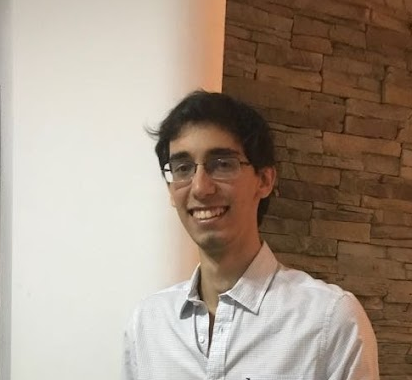
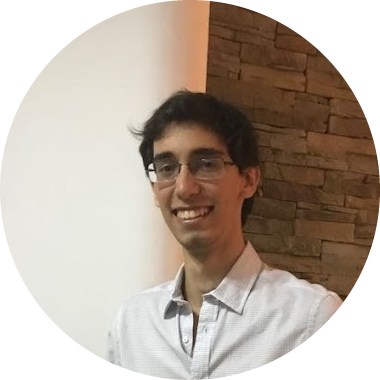
fix cv pic size

diff --git a/static/css/main.ab9989cb.css b/static/css/main.ab9989cb.css
@@ -1,0 +1,2 @@
+@import url(https://fonts.googleapis.com/css2?family=Source+Sans+Pro:ital,wght@0,300;0,400;0,600;0,900;1,400&display=swap);@import url(https://fonts.googleapis.com/css2?family=Source+Serif+4:ital,wght@0,400;0,600;0,700;1,400&display=swap);:root{--color-foreground:17,24,39;--color-foreground-secondary:42,56,85;--color-background-secondary:175,173,168;--color-background:243,244,246;--color-light:243,244,246;--color-mid:46,60,90;--color-dark:17,24,39;--user-font-scale:1rem;--rainbow-1:#632bf3;--rainbow-2:#f122c8;--rainbow-3:#f16022;--rainbow-4:#9ef344;--rainbow-5:#44d3f3;--red:#c93030}.xx-large{font-size:5rem}.x-large{font-size:3.5rem}.large{font-size:2rem}.big{font-size:1.5rem}.serif{font-family:"Source Serif 4",serif}.italics{font-style:italic}.text-gray{color:#2a3855;color:rgb(var(--color-foreground-secondary))}h2,h3{font-weight:600}ul{list-style-type:none}body{background:#f3f4f6;background:rgb(var(--color-background));color:#111827;color:rgb(var(--color-foreground));font-family:Source Sans Pro,sans-serif;font-size:clamp(.875rem,.4626rem + 1.0309vw + 1rem,1.125rem);font-size:clamp(.875rem,.4626rem + 1.0309vw + var(--user-font-scale),1.125rem);max-width:100vw;min-height:100vh;overflow-x:hidden;-webkit-user-select:none;-ms-user-select:none;user-select:none;width:100%}body>div{min-height:inherit}@media(prefers-color-scheme:dark){:root{--color-foreground:250,246,238;--color-foreground-secondary:175,173,168;--color-background-secondary:42,56,85;--color-background:17,24,39}}*{box-sizing:border-box;margin:0}a{color:inherit;text-decoration:none}@media (max-width:700px){.hide-phone{display:none}}@media (min-width:700px){.hide-phone{display:block}.hide-tablet{display:none}}@media (min-width:1000px){.hide-tablet{display:block}.hide-pc{display:none}}.spinning-logo-container{height:50px;width:50px}.spinning-logo{align-items:center;-webkit-animation:spinning 10s linear infinite;animation:spinning 10s linear infinite;display:flex;justify-content:center;-webkit-transform-style:preserve-3d;transform-style:preserve-3d;transition:.1s}.spinning-logo>.face{left:0;position:absolute;top:0}.spinning-logo>.face.front{height:50px;-webkit-transform:translateZ(2px);transform:translateZ(2px);width:50px}.spinning-logo>.face.back{background-color:#fff;height:50px;-webkit-mask:url(/portfolio-minimalist/static/media/logo2.45fc0f20abd22bcc266a.svg);mask:url(/portfolio-minimalist/static/media/logo2.45fc0f20abd22bcc266a.svg);-webkit-mask-repeat:no-repeat;mask-repeat:no-repeat;-webkit-transform:translateZ(-1.75px) translateX(3px);transform:translateZ(-1.75px) translateX(3px);width:50px}.spinning-logo>.face.back>img{height:auto;-webkit-transform:translateY(10px);transform:translateY(10px);width:100%}.spinning-logo>.face.side{height:25px;width:4px}.spinning-logo>.face.side.e{background-color:#fff;-webkit-transform:rotateY(90deg) translate3d(0,12.5px,44.5px);transform:rotateY(90deg) translate3d(0,12.5px,44.5px)}.spinning-logo>.face.side.w{background-color:#fff;-webkit-transform:rotateY(90deg) translate3d(0,12.5px,1.5px);transform:rotateY(90deg) translate3d(0,12.5px,1.5px)}.spinning-logo>.face.side.nw{background-color:#fff;-webkit-transform:rotate(120deg) rotateY(90deg) translate3d(0,-26px,-22.25px);transform:rotate(120deg) rotateY(90deg) translate3d(0,-26px,-22.25px)}.spinning-logo>.face.side.ne{background-color:#fff;-webkit-transform:rotate(240deg) rotateY(90deg) translate3d(0,13.75px,-.75px);transform:rotate(240deg) rotateY(90deg) translate3d(0,13.75px,-.75px)}.spinning-logo>.face.side.se{background-color:#fff;-webkit-transform:rotate(120deg) rotateY(90deg) translate3d(0,-26px,20.75px);transform:rotate(120deg) rotateY(90deg) translate3d(0,-26px,20.75px)}.spinning-logo>.face.side.sw{background-color:#fff;-webkit-transform:rotate(240deg) rotateY(90deg) translate3d(0,13.75px,-43.75px);transform:rotate(240deg) rotateY(90deg) translate3d(0,13.75px,-43.75px)}@-webkit-keyframes spinning{0%{-webkit-transform:rotateY(0deg);transform:rotateY(0deg)}to{-webkit-transform:rotateY(1turn);transform:rotateY(1turn)}}@keyframes spinning{0%{-webkit-transform:rotateY(0deg);transform:rotateY(0deg)}to{-webkit-transform:rotateY(1turn);transform:rotateY(1turn)}}header{--rainbow-height:5px;background-color:rgb(var(--color-background));box-shadow:0 0 4px 4px rgba(var(--color-foreground),.26);height:70px;position:-webkit-sticky;position:sticky;top:0;z-index:5}header .rainbow-border{background:linear-gradient(90deg,var(--rainbow-1),var(--rainbow-2),var(--rainbow-3),var(--rainbow-4),var(--rainbow-5));bottom:0;height:var(--rainbow-height);position:absolute;width:100%}.header__content{align-items:center;display:flex;height:100%;justify-content:center;margin:0 auto;max-width:1080px}.header__content h2{display:none}@media (min-width:700px){.header__content h2{display:block}}.glitched-title{position:relative}.glitched-title .layer{mix-blend-mode:exclusion}.glitched-title .layer.red{-webkit-animation:glitch-out .1s linear infinite;animation:glitch-out .1s linear infinite;color:red;left:0;position:absolute;top:0;-webkit-transform:translate(calc(var(--displacement-x)*-.25em),calc(var(--displacement-y)*.25em));transform:translate(calc(var(--displacement-x)*-.25em),calc(var(--displacement-y)*.25em))}.glitched-title .layer.green{color:lime}.glitched-title .layer.blue{-webkit-animation:glitch-out .1s linear infinite;animation:glitch-out .1s linear infinite;color:blue;left:0;position:absolute;top:0;-webkit-transform:translate(calc(var(--displacement-x)*.25em),calc(var(--displacement-y)*-.25em));transform:translate(calc(var(--displacement-x)*.25em),calc(var(--displacement-y)*-.25em))}@-webkit-keyframes glitch-out{0%{left:0}25%{left:-1px}75%{left:1px}to{left:0}}@keyframes glitch-out{0%{left:0}25%{left:-1px}75%{left:1px}to{left:0}}.rainbow-fill-title{-webkit-text-fill-color:transparent;-webkit-animation:animate-bkg 5s linear infinite;animation:animate-bkg 5s linear infinite;-webkit-background-clip:text;background-image:linear-gradient(90deg,var(--rainbow-1),var(--rainbow-2),var(--rainbow-3),var(--rainbow-4),var(--rainbow-5),var(--rainbow-1));background-size:120% 100%;font-weight:900}@-webkit-keyframes animate-bkg{0%{background-position:0 0}to{background-position:600% 0}}@keyframes animate-bkg{0%{background-position:0 0}to{background-position:600% 0}}.split-title{display:flex;line-height:.85;margin:0 auto;position:relative;width:-webkit-fit-content;width:-moz-fit-content;width:fit-content}.split-title__cutout{-webkit-animation:cutout-movement 20s ease-in-out infinite;animation:cutout-movement 20s ease-in-out infinite;background-image:linear-gradient(90deg,var(--rainbow-1),var(--rainbow-2),var(--rainbow-3),var(--rainbow-4),var(--rainbow-5),var(--rainbow-1));color:rgb(var(--color-background));left:0;position:absolute;top:0}@-webkit-keyframes cutout-movement{0%{-webkit-clip-path:polygon(var(--pos-left-1) 0,var(--pos-left-1) 100%,var(--pos-right-1) 100%,var(--pos-right-1) 0);clip-path:polygon(var(--pos-left-1) 0,var(--pos-left-1) 100%,var(--pos-right-1) 100%,var(--pos-right-1) 0)}35%{-webkit-clip-path:polygon(var(--pos-left-2) 0,var(--pos-left-2) 100%,var(--pos-right-2) 100%,var(--pos-right-2) 0);clip-path:polygon(var(--pos-left-2) 0,var(--pos-left-2) 100%,var(--pos-right-2) 100%,var(--pos-right-2) 0)}70%{-webkit-clip-path:polygon(var(--pos-left-3) 0,var(--pos-left-3) 100%,var(--pos-right-3) 100%,var(--pos-right-3) 0);clip-path:polygon(var(--pos-left-3) 0,var(--pos-left-3) 100%,var(--pos-right-3) 100%,var(--pos-right-3) 0)}to{-webkit-clip-path:polygon(var(--pos-left-1) 0,var(--pos-left-1) 100%,var(--pos-right-1) 100%,var(--pos-right-1) 0);clip-path:polygon(var(--pos-left-1) 0,var(--pos-left-1) 100%,var(--pos-right-1) 100%,var(--pos-right-1) 0)}}@keyframes cutout-movement{0%{-webkit-clip-path:polygon(var(--pos-left-1) 0,var(--pos-left-1) 100%,var(--pos-right-1) 100%,var(--pos-right-1) 0);clip-path:polygon(var(--pos-left-1) 0,var(--pos-left-1) 100%,var(--pos-right-1) 100%,var(--pos-right-1) 0)}35%{-webkit-clip-path:polygon(var(--pos-left-2) 0,var(--pos-left-2) 100%,var(--pos-right-2) 100%,var(--pos-right-2) 0);clip-path:polygon(var(--pos-left-2) 0,var(--pos-left-2) 100%,var(--pos-right-2) 100%,var(--pos-right-2) 0)}70%{-webkit-clip-path:polygon(var(--pos-left-3) 0,var(--pos-left-3) 100%,var(--pos-right-3) 100%,var(--pos-right-3) 0);clip-path:polygon(var(--pos-left-3) 0,var(--pos-left-3) 100%,var(--pos-right-3) 100%,var(--pos-right-3) 0)}to{-webkit-clip-path:polygon(var(--pos-left-1) 0,var(--pos-left-1) 100%,var(--pos-right-1) 100%,var(--pos-right-1) 0);clip-path:polygon(var(--pos-left-1) 0,var(--pos-left-1) 100%,var(--pos-right-1) 100%,var(--pos-right-1) 0)}}.vibrating-title{position:relative;width:-webkit-fit-content;width:-moz-fit-content;width:fit-content}.vibrating-title .layer{-webkit-animation:vibrate 2.5s linear infinite;animation:vibrate 2.5s linear infinite;mix-blend-mode:exclusion}.vibrating-title .layer.red{--rotation-amount:7deg;--rotation-amount-inverse:calc(var(--rotation-amount)*-1);--scale-amount:.92;color:red;left:0;position:absolute;top:0}.vibrating-title .layer.green{--rotation-amount:5deg;--rotation-amount-inverse:calc(var(--rotation-amount)*-1);--scale-amount:.9;color:lime}.vibrating-title .layer.blue{--rotation-amount:3deg;--rotation-amount-inverse:calc(var(--rotation-amount)*-1);--scale-amount:.88;color:blue;left:0;position:absolute;top:0}@-webkit-keyframes vibrate{0%{-webkit-transform:rotate(0deg);transform:rotate(0deg)}1%{-webkit-transform:rotate(var(--rotation-amount)) scale(var(--scale-amount));transform:rotate(var(--rotation-amount)) scale(var(--scale-amount))}2%{-webkit-transform:rotate(var(--rotation-amount-inverse)) scale(var(--scale-amount));transform:rotate(var(--rotation-amount-inverse)) scale(var(--scale-amount))}3%{-webkit-transform:rotate(var(--rotation-amount)) scale(var(--scale-amount));transform:rotate(var(--rotation-amount)) scale(var(--scale-amount))}4%{-webkit-transform:rotate(var(--rotation-amount-inverse)) scale(var(--scale-amount));transform:rotate(var(--rotation-amount-inverse)) scale(var(--scale-amount))}5%{-webkit-transform:rotate(var(--rotation-amount));transform:rotate(var(--rotation-amount))}6%{-webkit-transform:rotate(var(--rotation-amount-inverse)) scale(var(--scale-amount));transform:rotate(var(--rotation-amount-inverse)) scale(var(--scale-amount))}7%{-webkit-transform:rotate(var(--rotation-amount));transform:rotate(var(--rotation-amount))}8%{-webkit-transform:rotate(var(--rotation-amount-inverse));transform:rotate(var(--rotation-amount-inverse))}9%{-webkit-transform:rotate(var(--rotation-amount)) scale(var(--scale-amount));transform:rotate(var(--rotation-amount)) scale(var(--scale-amount))}10%{-webkit-transform:rotate(0deg);transform:rotate(0deg)}20%{-webkit-transform:rotate(0deg);transform:rotate(0deg)}21%{-webkit-transform:rotate(var(--rotation-amount)) scale(var(--scale-amount));transform:rotate(var(--rotation-amount)) scale(var(--scale-amount))}22%{-webkit-transform:rotate(var(--rotation-amount-inverse));transform:rotate(var(--rotation-amount-inverse))}23%{-webkit-transform:rotate(var(--rotation-amount)) scale(var(--scale-amount));transform:rotate(var(--rotation-amount)) scale(var(--scale-amount))}24%{-webkit-transform:rotate(var(--rotation-amount-inverse));transform:rotate(var(--rotation-amount-inverse))}25%{-webkit-transform:rotate(var(--rotation-amount));transform:rotate(var(--rotation-amount))}26%{-webkit-transform:rotate(var(--rotation-amount-inverse)) scale(var(--scale-amount));transform:rotate(var(--rotation-amount-inverse)) scale(var(--scale-amount))}27%{-webkit-transform:rotate(var(--rotation-amount));transform:rotate(var(--rotation-amount))}28%{-webkit-transform:rotate(var(--rotation-amount-inverse));transform:rotate(var(--rotation-amount-inverse))}29%{-webkit-transform:rotate(var(--rotation-amount)) scale(var(--scale-amount));transform:rotate(var(--rotation-amount)) scale(var(--scale-amount))}30%{-webkit-transform:rotate(0deg);transform:rotate(0deg)}}@keyframes vibrate{0%{-webkit-transform:rotate(0deg);transform:rotate(0deg)}1%{-webkit-transform:rotate(var(--rotation-amount)) scale(var(--scale-amount));transform:rotate(var(--rotation-amount)) scale(var(--scale-amount))}2%{-webkit-transform:rotate(var(--rotation-amount-inverse)) scale(var(--scale-amount));transform:rotate(var(--rotation-amount-inverse)) scale(var(--scale-amount))}3%{-webkit-transform:rotate(var(--rotation-amount)) scale(var(--scale-amount));transform:rotate(var(--rotation-amount)) scale(var(--scale-amount))}4%{-webkit-transform:rotate(var(--rotation-amount-inverse)) scale(var(--scale-amount));transform:rotate(var(--rotation-amount-inverse)) scale(var(--scale-amount))}5%{-webkit-transform:rotate(var(--rotation-amount));transform:rotate(var(--rotation-amount))}6%{-webkit-transform:rotate(var(--rotation-amount-inverse)) scale(var(--scale-amount));transform:rotate(var(--rotation-amount-inverse)) scale(var(--scale-amount))}7%{-webkit-transform:rotate(var(--rotation-amount));transform:rotate(var(--rotation-amount))}8%{-webkit-transform:rotate(var(--rotation-amount-inverse));transform:rotate(var(--rotation-amount-inverse))}9%{-webkit-transform:rotate(var(--rotation-amount)) scale(var(--scale-amount));transform:rotate(var(--rotation-amount)) scale(var(--scale-amount))}10%{-webkit-transform:rotate(0deg);transform:rotate(0deg)}20%{-webkit-transform:rotate(0deg);transform:rotate(0deg)}21%{-webkit-transform:rotate(var(--rotation-amount)) scale(var(--scale-amount));transform:rotate(var(--rotation-amount)) scale(var(--scale-amount))}22%{-webkit-transform:rotate(var(--rotation-amount-inverse));transform:rotate(var(--rotation-amount-inverse))}23%{-webkit-transform:rotate(var(--rotation-amount)) scale(var(--scale-amount));transform:rotate(var(--rotation-amount)) scale(var(--scale-amount))}24%{-webkit-transform:rotate(var(--rotation-amount-inverse));transform:rotate(var(--rotation-amount-inverse))}25%{-webkit-transform:rotate(var(--rotation-amount));transform:rotate(var(--rotation-amount))}26%{-webkit-transform:rotate(var(--rotation-amount-inverse)) scale(var(--scale-amount));transform:rotate(var(--rotation-amount-inverse)) scale(var(--scale-amount))}27%{-webkit-transform:rotate(var(--rotation-amount));transform:rotate(var(--rotation-amount))}28%{-webkit-transform:rotate(var(--rotation-amount-inverse));transform:rotate(var(--rotation-amount-inverse))}29%{-webkit-transform:rotate(var(--rotation-amount)) scale(var(--scale-amount));transform:rotate(var(--rotation-amount)) scale(var(--scale-amount))}30%{-webkit-transform:rotate(0deg);transform:rotate(0deg)}}.segmented-title{position:relative}.segmented-title .layer{background-color:rgb(var(--color-background));border-radius:10px;padding:0 2rem;width:var(--text-container-width)}.segmented-title .layer.scrambled{border:1px solid rgba(var(--color-foreground),.5);position:absolute;top:0;-webkit-transform:rotateX(0deg);transform:rotateX(0deg);transition:.3s}.segmented-title .layer.scrambled.hidden{-webkit-transform:rotateX(-90deg);transform:rotateX(-90deg)}.segmented-title .layer.unscrambled{opacity:0;transition:1s .2s}.segmented-title .layer.unscrambled.hidden{opacity:1}.section-introduction{grid-gap:.5rem;display:flex;flex-direction:column;justify-content:space-evenly;min-height:calc(100vh - 70px - 1rem);padding:1rem .5rem 0;width:100%}.section-introduction .greeting{margin:0 auto;max-width:450px;width:100%}.section-introduction .picture{background-color:rgb(var(--color-foreground));margin:0 auto;-webkit-mask-image:url(/portfolio-minimalist/static/media/blob3.23fd94d61493c366bb46.svg);mask-image:url(/portfolio-minimalist/static/media/blob3.23fd94d61493c366bb46.svg);-webkit-mask-position:center;mask-position:center;-webkit-mask-repeat:no-repeat;mask-repeat:no-repeat;-webkit-mask-size:65%;mask-size:65%;max-width:450px;transition:-webkit-mask-size .2s ease-in-out;transition:mask-size .2s ease-in-out;transition:mask-size .2s ease-in-out,-webkit-mask-size .2s ease-in-out}.section-introduction .picture:hover{-webkit-mask-size:60%;mask-size:60%}.section-introduction .picture img{width:100%}.section-introduction .description{margin:.5rem auto;max-width:300px;text-align:center;width:100%}.section-introduction .description .contact-elements{grid-gap:.5rem;display:flex;flex-wrap:wrap;justify-content:center;margin:1rem auto 0}.section-introduction .description .contact-elements .redirect-btn{cursor:pointer;position:relative}.section-introduction .description .contact-elements .redirect-btn:hover .logo-div{-webkit-transform:scale(1.1);transform:scale(1.1)}.section-introduction .description .contact-elements .redirect-btn:hover .contact-tooltip{opacity:1}.section-introduction .description .contact-elements .logo-div{--logo-height:30px;aspect-ratio:1;background:rgb(var(--color-foreground));height:var(--logo-height);transition:.2s}.section-introduction .description .contact-elements .logo-div.github-logo{-webkit-mask-image:url(/portfolio-minimalist/static/media/github.ca395b70c42d82c28b4f.svg);mask-image:url(/portfolio-minimalist/static/media/github.ca395b70c42d82c28b4f.svg);-webkit-mask-position:center;mask-position:center;-webkit-mask-repeat:no-repeat;mask-repeat:no-repeat}.section-introduction .description .contact-elements .logo-div.linkedin-logo{-webkit-mask-image:url(/portfolio-minimalist/static/media/linkedin.e86a25febc03a915ee8d.svg);mask-image:url(/portfolio-minimalist/static/media/linkedin.e86a25febc03a915ee8d.svg);-webkit-mask-position:center;mask-position:center;-webkit-mask-repeat:no-repeat;mask-repeat:no-repeat}.section-introduction .description .contact-elements .logo-div.mail-logo{-webkit-mask-image:url(/portfolio-minimalist/static/media/envelope.bd9b93d2d34a856ff48b.svg);mask-image:url(/portfolio-minimalist/static/media/envelope.bd9b93d2d34a856ff48b.svg);-webkit-mask-position:center;mask-position:center;-webkit-mask-repeat:no-repeat;mask-repeat:no-repeat}.section-introduction .description .contact-elements .logo-div.download-logo{height:calc(var(--logo-height)*.9);-webkit-mask-image:url(/portfolio-minimalist/static/media/pdf.ffc0851df91f68e1ba02.svg);mask-image:url(/portfolio-minimalist/static/media/pdf.ffc0851df91f68e1ba02.svg);-webkit-mask-position:center;mask-position:center;-webkit-mask-repeat:no-repeat;mask-repeat:no-repeat}.section-introduction .description .contact-elements .contact-tooltip{background-color:rgb(var(--color-foreground));border-radius:5px;color:rgb(var(--color-background));left:50%;opacity:0;padding:.5rem 1.5rem;pointer-events:none;position:absolute;top:150%;-webkit-transform:translateX(-50%);transform:translateX(-50%);transition:.2s}@media (min-width:700px){.section-introduction{align-items:center;flex-direction:row;flex-wrap:wrap;margin:0 auto;max-width:calc(700px + 1rem)}.section-introduction .greeting,.section-introduction .picture{max-width:340px}}@media (min-width:1000px){.section-introduction{align-items:center;flex-direction:row;margin:0 auto;max-width:1000px}.section-introduction .picture{max-width:450px}}.tabbed-menu{width:100%}.tabbed-menu__tabs{grid-gap:1rem;background-color:rgb(var(--color-background-secondary));border-radius:5px;box-shadow:inset 0 0 2px 2px #00000050;display:flex;flex-direction:column;margin:.5rem auto;padding:.5rem 1rem;position:relative;width:100%}.tabbed-menu__tab{cursor:pointer;height:calc(50px - .5rem);padding:.5rem 1.5rem;text-align:center;width:100%;z-index:1}.tabbed-menu__tab-selector{background-color:rgb(var(--color-background));border-radius:5px;height:calc(50px - .5rem);position:absolute;top:calc(.5rem + var(--selected-item)*(42px + 1rem));transition:top .2s;width:calc(100% - 2rem)}@media (min-width:700px){.tabbed-menu__tabs{flex-direction:row;height:50px;padding:.25rem 1rem;width:-webkit-fit-content;width:-moz-fit-content;width:fit-content}.tabbed-menu__tab{width:200px}.tabbed-menu__tab-selector{left:calc(1rem + var(--selected-item)*(200px + 1rem));top:.25rem;transition:left .2s;width:200px}}.tabbed-menu__tab-body{margin:0 auto;margin-block:0;max-height:400px;overflow-y:auto;padding-inline:0}.tabbed-menu__tab-body hr{margin:0 auto;width:80%}.tabbed-menu__list-item{display:flex;flex-direction:column;margin:.5rem 0;padding-left:1.2rem;position:relative}.tabbed-menu__list-item span{margin-left:1rem}.tabbed-menu__list-index{font-size:1rem;left:0;position:absolute;top:.15rem}.tabbed-menu__tab-body::-webkit-scrollbar{width:.5rem}.tabbed-menu__tab-body::-webkit-scrollbar-thumb{background-color:rgb(var(--color-foreground));border-radius:5px}.section-experience{margin:0 auto 5rem;max-width:700px;padding:0 .5rem}.section-experience h2{font-size:3rem;text-align:center}@media (min-width:350px){.section-experience h2{font-size:3.5rem}}.glass-card{border:1px solid rgb(var(--color-foreground),.18);border-radius:10px;cursor:pointer;margin:0 auto 2rem;overflow:hidden;position:relative;transition:width .2s}.glass-card:hover .glass-card__background{-webkit-transform:translateX(var(--displacement));transform:translateX(var(--displacement))}.glass-card:hover .glass-card__foreground{background-color:rgba(var(--color-foreground),.15)}.glass-card__background{height:100%;position:absolute;transition:-webkit-transform .2s;transition:transform .2s;transition:transform .2s,-webkit-transform .2s;width:100%}.glass-card__background .circle{aspect-ratio:1;border-radius:calc(var(--size)*.5px);left:calc(var(--position-x)*1%);position:absolute;top:calc(var(--position-y)*1%);-webkit-transform:translate(-50%,-50%);transform:translate(-50%,-50%);width:calc(var(--size)*1px)}.glass-card__background .circle.color-1{background-color:var(--rainbow-1)}.glass-card__background .circle.color-2{background-color:var(--rainbow-2)}.glass-card__background .circle.color-3{background-color:var(--rainbow-3)}.glass-card__background .circle.color-4{background-color:var(--rainbow-4)}.glass-card__background .circle.color-5{background-color:var(--rainbow-5)}.glass-card__foreground{align-items:center;-webkit-backdrop-filter:blur(4px);backdrop-filter:blur(4px);background-color:rgba(var(--color-foreground),.3);color:rgb(var(--color-light));display:flex;height:100%;justify-content:space-between;padding:1rem;transition:background-color .2s;width:100%}.glass-card__foreground img{-webkit-filter:invert(1);filter:invert(1)}.glass-popover{-webkit-animation:open-popover .1s linear forwards;animation:open-popover .1s linear forwards;background-color:rgba(var(--color-foreground),.25);border:1px solid rgb(var(--color-foreground),.18);border-radius:5px;box-shadow:0 4px 16px 0 rgba(var(--color-foreground),.37);color:rgb(var(--color-light));max-width:500px;padding:.5rem .5rem 1.5rem;width:95%}.glass-popover__backdrop{align-items:center;-webkit-backdrop-filter:blur(8px);backdrop-filter:blur(8px);background-color:rgba(var(--color-background),.25);display:flex;height:100%;justify-content:center;left:50%;position:fixed;top:50%;-webkit-transform:translate(-50%,-50%);transform:translate(-50%,-50%);width:100%;z-index:5}.glass-popover__contents{padding:0 .5rem}.glass-popover li{margin:.5rem 0 0}.glass-popover__underline{background-color:rgb(var(--color-mid));height:2px;width:100%}.glass-popover__underline-fill{background-color:rgb(var(--color-light));height:100%;width:calc(var(--underline-width)*1%)}.glass-popover__close{left:50%;position:fixed;top:80%;-webkit-transform:translate(-50%,-50%);transform:translate(-50%,-50%)}@-webkit-keyframes open-popover{0%{-webkit-transform:scale(.8);transform:scale(.8)}30%{-webkit-transform:scale(1.1);transform:scale(1.1)}60%{-webkit-transform:scale(1);transform:scale(1)}}@keyframes open-popover{0%{-webkit-transform:scale(.8);transform:scale(.8)}30%{-webkit-transform:scale(1.1);transform:scale(1.1)}60%{-webkit-transform:scale(1);transform:scale(1)}}@media (min-width:700px){.glass-card__foreground{font-size:1.25rem}}@media (min-width:1000px){.glass-card__foreground{font-size:1.5rem}}.section-skills{margin:5rem auto;max-width:700px;padding:0 .5rem}.section-skills h2{margin-bottom:1rem}.masonry{flex-wrap:wrap;justify-content:center;margin:0 auto}.brick-group,.masonry{grid-gap:.5rem;display:flex}.brick-group{flex:1 1;flex-direction:column;max-width:300px;min-width:250px}.brick{border:1px solid rgb(var(--color-foreground),.18);border-radius:10px;height:calc(var(--brick-height)*60px + (var(--brick-height) - 1)*10px);overflow:hidden;position:relative;width:100%}.brick__background{align-items:center;display:flex;height:100%;justify-content:center;left:50%;position:absolute;top:50%;-webkit-transform:translate(-50%,-50%) rotate(var(--bkg-rotation));transform:translate(-50%,-50%) rotate(var(--bkg-rotation));width:100%}.brick__foreground{-webkit-backdrop-filter:blur(4px);backdrop-filter:blur(4px);background-color:rgba(var(--color-background-secondary),.3);color:rgb(var(--color-light));height:100%;padding:1rem;width:100%;z-index:1}@media (min-width:1000px){.brick{height:calc(var(--brick-height)*80px + (var(--brick-height) - 1)*10px)}}.section-projects{margin:5rem auto;max-width:700px;padding:0 .5rem}.section-projects h2{--text-container-width:300px;margin:0 auto 1rem;width:var(--text-container-width)}.section-contact{margin:5rem auto;max-width:700px;padding:0 .5rem}.section-contact h2{margin:0 auto 10px;width:-webkit-fit-content;width:-moz-fit-content;width:fit-content}.section-contact__contents{grid-gap:.5rem;display:flex;flex-wrap:wrap;justify-content:center;margin:0 auto}.section-contact__contents .redirect-btn{align-items:center;border-radius:5px;box-shadow:0 0 2px 2px rgba(var(--color-foreground),.15);cursor:pointer;display:flex;flex:1 1;justify-content:space-between;max-width:300px;min-width:250px;padding:.5rem;transition:.2s}.section-contact__contents .redirect-btn:hover{background-color:rgba(var(--color-foreground),.1);box-shadow:0 0 2px 2px rgba(var(--color-foreground),.2)}.section-contact__contents .logo-div{--logo-height:30px;aspect-ratio:1;background:rgb(var(--color-foreground));height:var(--logo-height)}.section-contact__contents .logo-div.github-logo{-webkit-mask-image:url(/portfolio-minimalist/static/media/github.ca395b70c42d82c28b4f.svg);mask-image:url(/portfolio-minimalist/static/media/github.ca395b70c42d82c28b4f.svg)}.section-contact__contents .logo-div.github-logo,.section-contact__contents .logo-div.linkedin-logo{-webkit-mask-position:center;mask-position:center;-webkit-mask-repeat:no-repeat;mask-repeat:no-repeat}.section-contact__contents .logo-div.linkedin-logo{-webkit-mask-image:url(/portfolio-minimalist/static/media/linkedin.e86a25febc03a915ee8d.svg);mask-image:url(/portfolio-minimalist/static/media/linkedin.e86a25febc03a915ee8d.svg)}.section-contact__contents .logo-div.mail-logo{-webkit-mask-image:url(/portfolio-minimalist/static/media/envelope.bd9b93d2d34a856ff48b.svg);mask-image:url(/portfolio-minimalist/static/media/envelope.bd9b93d2d34a856ff48b.svg)}.section-contact__contents .logo-div.download-logo,.section-contact__contents .logo-div.mail-logo{-webkit-mask-position:center;mask-position:center;-webkit-mask-repeat:no-repeat;mask-repeat:no-repeat}.section-contact__contents .logo-div.download-logo{height:calc(var(--logo-height)*.9);-webkit-mask-image:url(/portfolio-minimalist/static/media/pdf.ffc0851df91f68e1ba02.svg);mask-image:url(/portfolio-minimalist/static/media/pdf.ffc0851df91f68e1ba02.svg)}@media (min-width:1000px){.section-contact__contents{max-width:1000px}}footer{--rainbow-height:5px;position:relative}footer .rainbow-border{background:linear-gradient(90deg,var(--rainbow-1),var(--rainbow-2),var(--rainbow-3),var(--rainbow-4),var(--rainbow-5));height:var(--rainbow-height);position:absolute;top:0;width:100%}.footer__content{grid-gap:1rem;align-items:center;display:flex;height:calc(50px + var(--rainbow-height));justify-content:center;opacity:.5;padding-top:var(--rainbow-height)}.footer__content img{aspect-ratio:1;height:50%}.resume__popup{border-radius:5px;box-shadow:0 0 5px rgb(var(--color-mid));height:80%;left:calc(50% - 4.25in);overflow-y:auto;width:8.5in}.resume__backdrop{align-items:center;-webkit-backdrop-filter:blur(6px);backdrop-filter:blur(6px);background-color:#00000010;display:flex;height:100%;justify-content:center;left:0;position:fixed;top:0;width:100%;z-index:10}.resume__control-buttons{grid-gap:10px;bottom:10px;display:flex;left:50%;position:fixed;-webkit-transform:translateX(-50%);transform:translateX(-50%)}.resume__download{grid-gap:10px;align-items:center;background-color:var(--rainbow-1);border:none;border-radius:5px;color:#fff;cursor:pointer;display:flex;font-size:1.2em;outline:none;padding:.75rem 2.5rem}.resume__download,.resume__download .download-logo{transition:-webkit-transform .2s;transition:transform .2s;transition:transform .2s,-webkit-transform .2s}.resume__download .download-logo{-webkit-mask-image:url(/portfolio-minimalist/static/media/download.499e57d469e4569b3cd7.svg);mask-image:url(/portfolio-minimalist/static/media/download.499e57d469e4569b3cd7.svg)}.resume__download .check-logo,.resume__download .download-logo{--logo-height:25px;aspect-ratio:1;background:#fff;height:var(--logo-height);height:calc(var(--logo-height)*.9);-webkit-mask-position:center;mask-position:center;-webkit-mask-repeat:no-repeat;mask-repeat:no-repeat}.resume__download .check-logo{-webkit-mask-image:url(/portfolio-minimalist/static/media/check.d77a6106b69459fb02fa.svg);mask-image:url(/portfolio-minimalist/static/media/check.d77a6106b69459fb02fa.svg);transition:-webkit-transform .2s;transition:transform .2s;transition:transform .2s,-webkit-transform .2s}.resume__download:hover{-webkit-animation:rainbow-animation 2s infinite;animation:rainbow-animation 2s infinite;-webkit-transform:scale(1.1);transform:scale(1.1)}.resume__download:hover .download-logo{-webkit-transform:scale(1.2);transform:scale(1.2)}.resume__close{grid-gap:10px;align-items:center;background-color:rgb(var(--color-foreground-secondary));border:none;border-radius:5px;color:rgb(var(--color-background-secondary));cursor:pointer;display:flex;font-size:1.2em;outline:none;padding:.75rem 2.5rem}.resume__close,.resume__close .close-logo{transition:-webkit-transform .2s;transition:transform .2s;transition:transform .2s,-webkit-transform .2s}.resume__close .close-logo{--logo-height:25px;aspect-ratio:1;background:#fff;height:var(--logo-height);height:calc(var(--logo-height)*.9);-webkit-mask-image:url(/portfolio-minimalist/static/media/close.ae469738e479d31aa952.svg);mask-image:url(/portfolio-minimalist/static/media/close.ae469738e479d31aa952.svg);-webkit-mask-position:center;mask-position:center;-webkit-mask-repeat:no-repeat;mask-repeat:no-repeat}.resume__close:hover{-webkit-transform:scale(1.1);transform:scale(1.1)}.resume__close:hover .close-logo{-webkit-transform:scale(1.2);transform:scale(1.2)}.resume__style1{background-color:#fff;color:rgb(var(--color-dark));font-size:.7em}.resume__style1 .resume__header{background-color:rgb(var(--color-light));display:flex;padding:1rem 0;position:-webkit-sticky;position:sticky;top:0}.resume__style1 .resume__header__part{align-items:center;display:flex;flex:1 1;flex-direction:column}.resume__style1 .resume__contents{padding:.5rem 2rem 4rem}.resume__style1 .resume__contents hr{margin:1.5rem 0}.resume__style1 .resume__contents h2{margin:1rem 0}.resume__style1 .resume__history-item{-webkit-column-break-inside:avoid;break-inside:avoid;margin:1rem 0 2rem;page-break-inside:avoid}.resume__style1 .resume__history-item__header{align-items:center;display:flex;margin:0 0 .5rem}.resume__style1 .resume__history-item__header>div,.resume__style1 .resume__history-item__header>h3{flex:1 1}.resume__style1 .resume__history-item__body{margin:0 2rem}.resume__style1 .resume__history-item__body ul{font-size:.8em;list-style-type:disc}@-webkit-keyframes rainbow-animation{0%{background-color:var(--rainbow-1)}20%{background-color:var(--rainbow-2)}40%{background-color:var(--rainbow-3)}60%{background-color:var(--rainbow-4)}80%{background-color:var(--rainbow-5)}to{background-color:var(--rainbow-1)}}.resume__style2{background-color:#fff;color:rgb(var(--color-dark));font-size:.7em}.resume__style2 .resume__header{align-items:center;background-color:rgb(var(--color-light));display:flex;height:236px;padding:1rem 0;position:-webkit-sticky;position:sticky;top:0}.resume__style2 .resume__header__part{align-items:center;display:flex;flex:2 1;flex-direction:column}.resume__style2 .resume__header__part:nth-child(2){flex:3 1;font-size:1.2em}.resume__style2 .resume__header__part .picture{margin:0 auto;-webkit-mask-image:url(/portfolio-minimalist/static/media/blob3.23fd94d61493c366bb46.svg);mask-image:url(/portfolio-minimalist/static/media/blob3.23fd94d61493c366bb46.svg);-webkit-mask-position:center;mask-position:center;-webkit-mask-repeat:no-repeat;mask-repeat:no-repeat;-webkit-mask-size:90%;mask-size:90%;max-height:200px;max-width:200px}.resume__style2 .resume__header__part .picture img{max-height:inherit;max-width:inherit;width:100%}.resume__style2 .resume__contents{padding:.5rem 2rem 4rem}.resume__style2 .resume__contents hr{margin:1.75rem 0 .75rem}.resume__style2 .resume__contents h2{font-size:1.4em;margin:1rem 0}.resume__style2 .resume__section{grid-gap:10px;display:flex}.resume__style2 .resume__section__title{flex:1 1}.resume__style2 .resume__section__contents{flex:4 1}.resume__style2 .resume__history-item{-webkit-column-break-inside:avoid;break-inside:avoid;margin:1rem 0 2rem;page-break-inside:avoid}.resume__style2 .resume__history-item__title{margin-bottom:.5rem}.resume__style2 .resume__history-item__contents,.resume__style2 .resume__history-item__title{grid-gap:10px;display:flex}.resume__style2 .resume__history-item__contents>:first-child,.resume__style2 .resume__history-item__title>:first-child{flex:1 1}.resume__style2 .resume__history-item__contents>:nth-child(2),.resume__style2 .resume__history-item__title>:nth-child(2){flex:4 1}.resume__style2 .resume__history-item__contents ul,.resume__style2 .resume__history-item__title ul{font-size:.8em;list-style-type:disc}@keyframes rainbow-animation{0%{background-color:var(--rainbow-1)}20%{background-color:var(--rainbow-2)}40%{background-color:var(--rainbow-3)}60%{background-color:var(--rainbow-4)}80%{background-color:var(--rainbow-5)}to{background-color:var(--rainbow-1)}}
+/*# sourceMappingURL=main.ab9989cb.css.map*/

diff --git a/index.html b/index.html
@@ -1,1 +1,1 @@
-<!doctype html><html lang="en"><head><meta charset="UTF-8"><meta name="viewport" content="width=device-width"><title>Andrés Movilla</title><link rel="icon" type="image/x-icon" href="/favicon.ico"/><meta content="Web portfolio"/><script defer="defer" src="/portfolio-minimalist/static/js/main.1cb2c642.js"></script><link href="/portfolio-minimalist/static/css/main.87d058e9.css" rel="stylesheet"></head><body><noscript>You need to enable JavaScript to run this app.</noscript><div id="root"></div></body></html>
+<!doctype html><html lang="en"><head><meta charset="UTF-8"><meta name="viewport" content="width=device-width"><title>Andrés Movilla</title><link rel="icon" type="image/x-icon" href="/favicon.ico"/><meta content="Web portfolio"/><script defer="defer" src="/portfolio-minimalist/static/js/main.1cb2c642.js"></script><link href="/portfolio-minimalist/static/css/main.ab9989cb.css" rel="stylesheet"></head><body><noscript>You need to enable JavaScript to run this app.</noscript><div id="root"></div></body></html>
